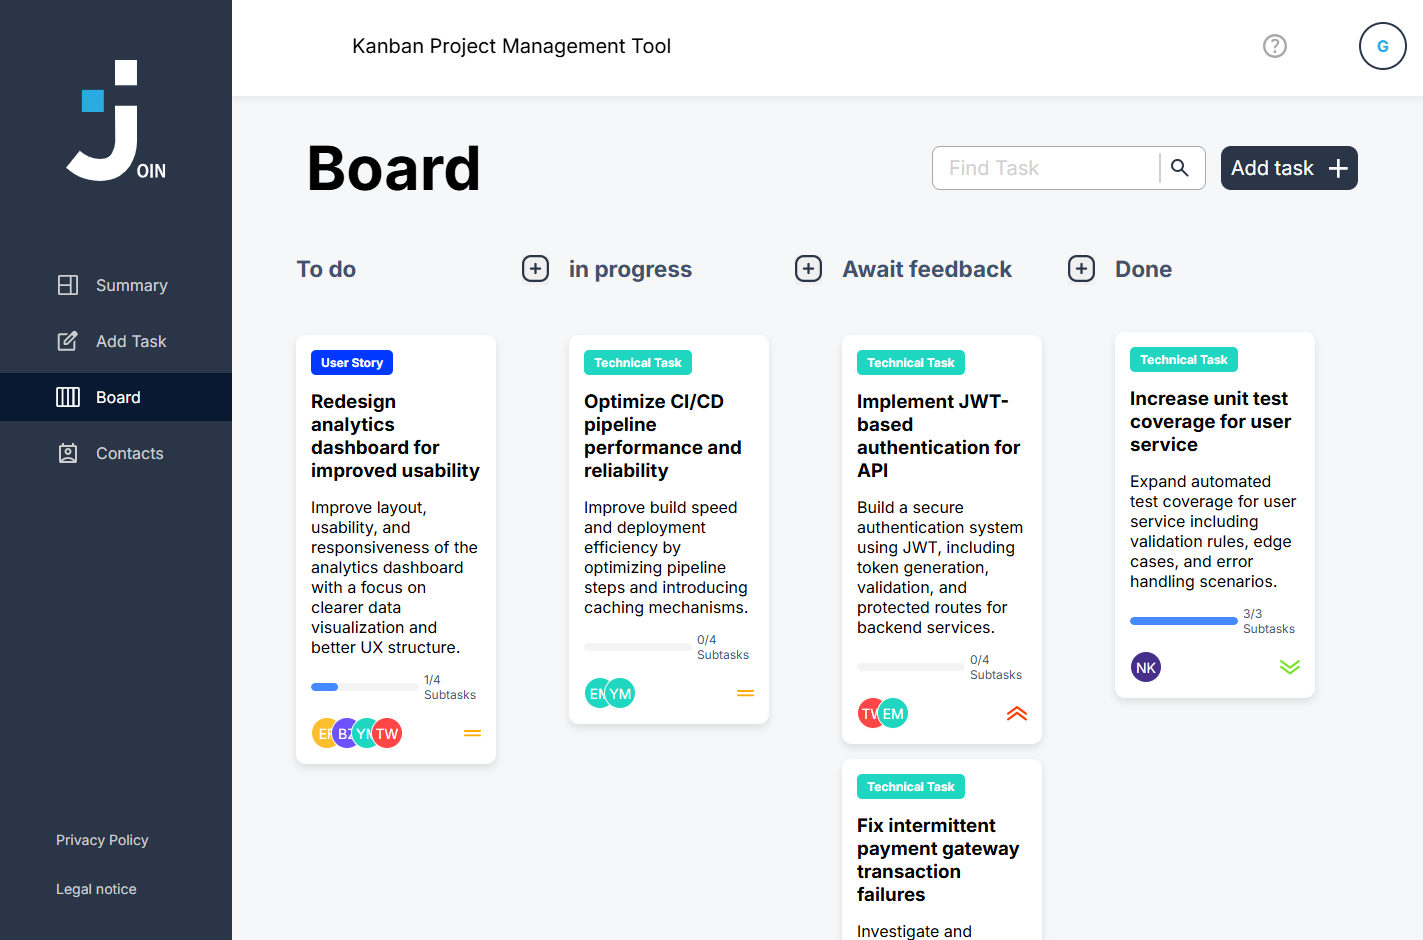
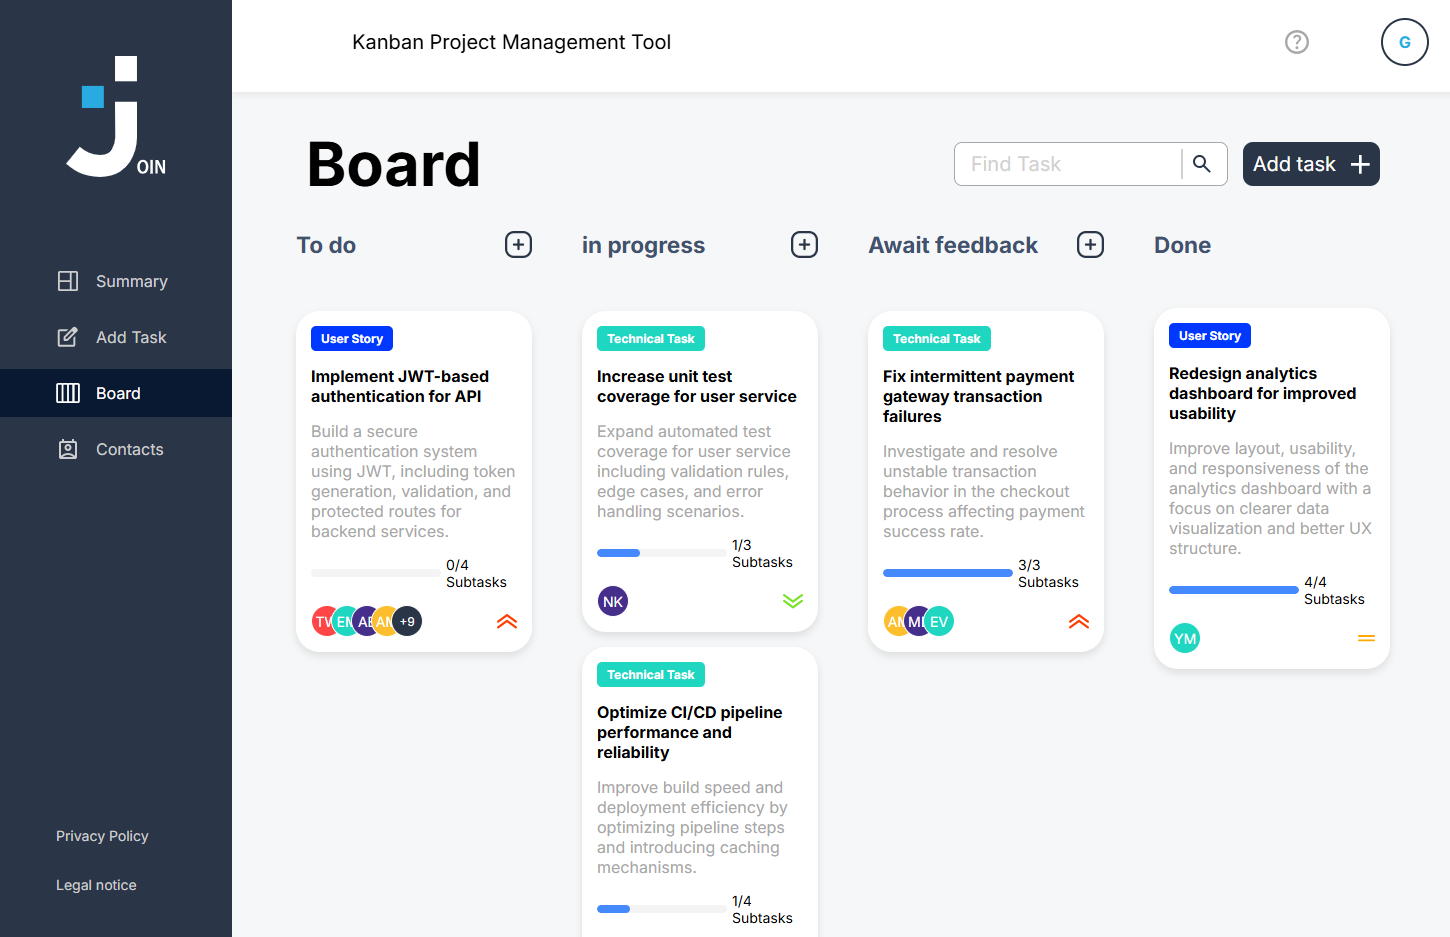
adding folder structure to the readme file

diff --git a/README.md b/README.md
@@ -81,7 +81,59 @@ It allows users to create tasks, manage contacts, assign responsibilities, and t
 
 ---
 
-## 🚀 Installation & Setup
+## 📁 Project Structure
+
+```text
+join/
+├── assets/
+│   ├── fonts/
+│   ├── icons/
+│   └── imgs/
+├── html/
+│   ├── add-task.html
+│   ├── board.html
+│   ├── contacts.html
+│   ├── help.html
+│   ├── legal-notice.html
+│   ├── legal-notice-external.html
+│   ├── privacy-policy.html
+│   ├── privacy-policy-external.html
+│   ├── signup.html
+│   ├── summary.html
+│   └── templates.html
+├── scripts/
+│   ├── add-task/
+│   ├── board/
+│   ├── contacts/
+│   ├── header.js
+│   ├── signup.js
+│   └── summary.js
+├── styles/
+│   ├── add-task/
+│   ├── board/
+│   ├── contacts/
+│   ├── assets.css
+│   ├── buttons.css
+│   ├── fonts.css
+│   ├── help.css
+│   ├── index.css
+│   ├── index-responsive.css
+│   ├── legal-notice.css
+│   ├── privacy-policy.css
+│   ├── standard.css
+│   ├── summary.css
+│   ├── summary-responsive.css
+│   ├── templates.css
+│   └── templates-responsive.css
+├── index.html
+├── script.js
+├── robots.txt
+└── README.md
+```
+
+---
+
+## �🚀 Installation & Setup
 
 ### 1. Clone the repository
 
